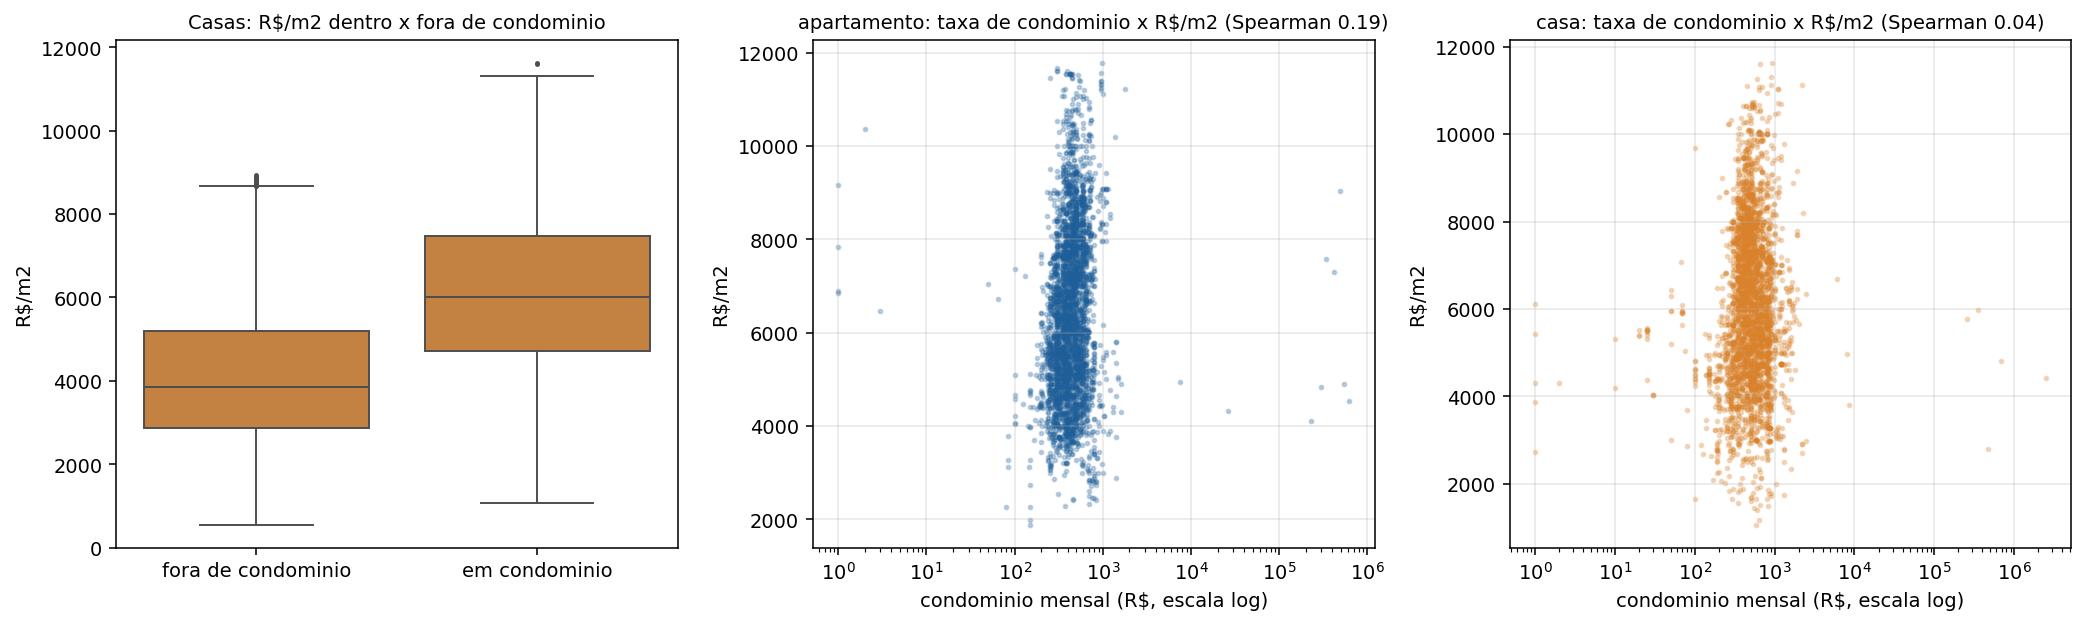
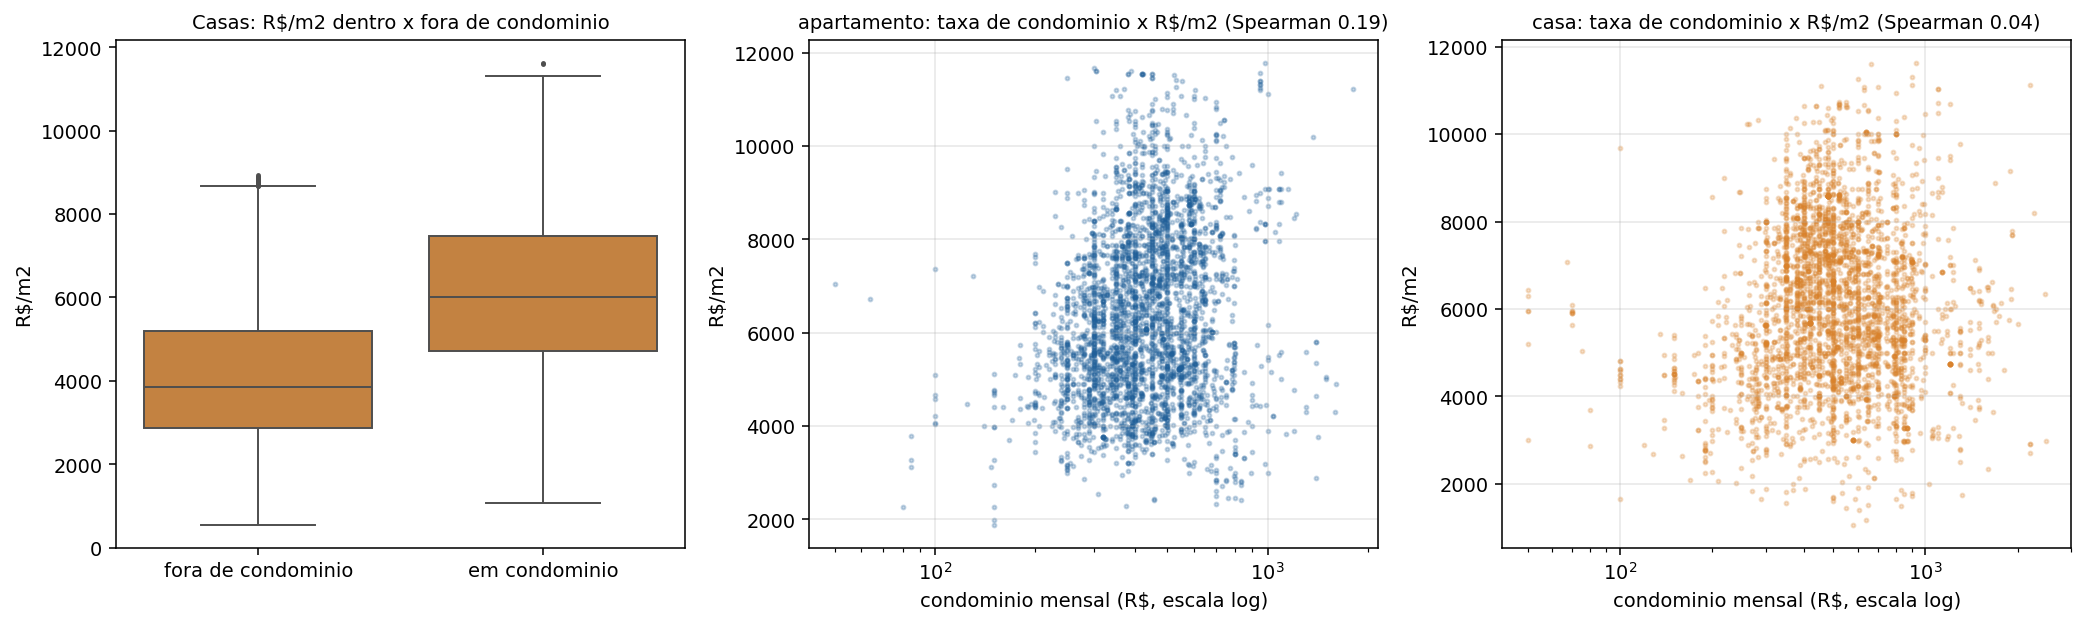
feat: trata taxas de condominio e IPTU implausiveis na limpeza do VivaReal
- valores positivos fora de R$ 50-5.000 (condominio) e R$ 50-30.000 (IPTU) viram
  ausentes; nenhuma linha e removida e zeros ("sem taxa") sao mantidos
- novas colunas condominio_informado e iptu_informado
- relatorio de limpeza com tabela de ajustes por segmento
- analise exploratoria reexecutada e docs atualizados; pendencia registrada:
  unidade do IPTU (mediana de R$ 100-150 por ano e suspeita)

diff --git a/src/vivareal/cleaning.py b/src/vivareal/cleaning.py
@@ -33,7 +33,9 @@ OUTPUT_COLUMNS = [
     "suites",
     "parking_spaces",
     "yearly_iptu",
+    "iptu_informado",
     "monthly_condo",
+    "condominio_informado",
     "amenities_count",
     "sale_price",
     "preco_m2",
@@ -80,13 +82,32 @@ def _registrar(log: list[tuple[str, int]], etapa: str, df: pd.DataFrame) -> None
     log.append((etapa, len(df)))
 
 
+def _anular_implausiveis(df: pd.DataFrame, coluna: str, faixa: tuple[float, float], rotulo: str) -> dict:
+    """Transforma em ausente (NaN) os valores POSITIVOS fora da faixa. Zero e mantido
+    ('sem taxa') e nenhuma linha e removida. Retorna o resumo do ajuste."""
+    baixo, alto = faixa
+    valores = df[coluna]
+    abaixo = (valores > 0) & (valores < baixo)
+    acima = valores > alto
+    df.loc[abaixo | acima, coluna] = float("nan")
+    return {
+        "variavel": rotulo,
+        "faixa plausivel": f"{baixo:g} a {alto:g}",
+        "zeros mantidos (sem taxa)": int((valores == 0).sum()),
+        "positivos abaixo do minimo -> ausente": int(abaixo.sum()),
+        "acima do maximo -> ausente": int(acima.sum()),
+        "informados ao final": int(df[coluna].notna().sum()),
+    }
+
+
 def limpar_segmento(
     df: pd.DataFrame,
     seg: SegmentoConfig,
     outlier_iqr_factor: float,
-) -> tuple[pd.DataFrame, list[tuple[str, int]]]:
-    """Aplica as regras de limpeza de um segmento (df ja deduplicado e
-    restrito a usage_type). Retorna o dataset e o log (etapa, linhas restantes)."""
+) -> tuple[pd.DataFrame, list[tuple[str, int]], list[dict]]:
+    """Aplica as regras de limpeza de um segmento (df ja deduplicado e restrito a
+    usage_type). Retorna o dataset, o log (etapa, linhas restantes) e os ajustes de
+    valores que nao removem linhas (taxas implausiveis viram ausentes)."""
     log: list[tuple[str, int]] = []
 
     df = df[df["property_type"].isin(seg.property_types)].copy()
@@ -125,6 +146,15 @@ def limpar_segmento(
     df = df[df["preco_m2"].between(q1 - outlier_iqr_factor * iqr, q3 + outlier_iqr_factor * iqr)]
     _registrar(log, f"outliers de preco_m2 por IQR (fator {outlier_iqr_factor:g}) por property_type", df)
 
+    ajustes = [
+        _anular_implausiveis(df, "monthly_condo", seg.monthly_condo_range, "condominio mensal (R$)"),
+        _anular_implausiveis(df, "yearly_iptu", seg.yearly_iptu_range, "IPTU anual (R$)"),
+    ]
+    # a ausencia da taxa carrega informacao (ex.: casas fora de condominio quase nunca tem
+    # taxa), entao ela vira indicador em vez de ser imputada
+    df["condominio_informado"] = df["monthly_condo"].notna().astype(int)
+    df["iptu_informado"] = df["yearly_iptu"].notna().astype(int)
+
     df["segmento"] = seg.nome
     # em_condominio so faz sentido para casas (CONDOMINIUM = casa em condominio)
     if seg.nome == "casa":
@@ -132,4 +162,4 @@ def limpar_segmento(
     else:
         df["em_condominio"] = pd.NA
 
-    return df[OUTPUT_COLUMNS].reset_index(drop=True), log
+    return df[OUTPUT_COLUMNS].reset_index(drop=True), log, ajustes

diff --git a/src/vivareal/build_dataset.py b/src/vivareal/build_dataset.py
@@ -25,8 +25,9 @@ def construir_datasets(config: VivaRealConfig | None = None) -> dict[str, pd.Dat
 
     datasets: dict[str, pd.DataFrame] = {}
     logs: dict[str, list[tuple[str, int]]] = {}
+    ajustes: dict[str, list[dict]] = {}
     for seg in cfg.segmentos:
-        datasets[seg.nome], logs[seg.nome] = limpar_segmento(base, seg, cfg.outlier_iqr_factor)
+        datasets[seg.nome], logs[seg.nome], ajustes[seg.nome] = limpar_segmento(base, seg, cfg.outlier_iqr_factor)
         print(f"[VIVAREAL] {seg.nome}: {len(datasets[seg.nome])} registros limpos")
 
     datasets["residencial"] = pd.concat(
@@ -38,7 +39,7 @@ def construir_datasets(config: VivaRealConfig | None = None) -> dict[str, pd.Dat
     for nome, df in datasets.items():
         df.to_csv(os.path.join(cfg.output_dir, f"{nome}.csv"), index=False, encoding="utf-8")
 
-    _escrever_relatorio(cfg, len(bruto), n_residencial, removidas, len(base), logs, datasets)
+    _escrever_relatorio(cfg, len(bruto), n_residencial, removidas, len(base), logs, ajustes, datasets)
     print(f"[VIVAREAL] Datasets em {cfg.output_dir} | relatorio em {cfg.report_path}")
     return datasets
 
@@ -50,6 +51,7 @@ def _escrever_relatorio(
     removidas: int,
     n_dedup: int,
     logs: dict[str, list[tuple[str, int]]],
+    ajustes: dict[str, list[dict]],
     datasets: dict[str, pd.DataFrame],
 ) -> None:
     linhas = [
@@ -73,6 +75,10 @@ def _escrever_relatorio(
         for etapa, restantes in log:
             linhas.append(f"| {etapa} (-{anterior - restantes}) | {restantes} |")
             anterior = restantes
+        linhas += ["", f"Ajustes de valores no segmento {nome} (nenhuma linha removida):", ""]
+        tabela = pd.DataFrame(ajustes[nome])
+        linhas += ["| " + " | ".join(tabela.columns) + " |", "|" + "---|" * len(tabela.columns)]
+        linhas += ["| " + " | ".join(str(v) for v in linha) + " |" for linha in tabela.itertuples(index=False)]
         linhas.append("")
 
     linhas += ["## Arquivos gerados", "", "| Arquivo | Linhas |", "|---|---|"]
@@ -82,6 +88,8 @@ def _escrever_relatorio(
         "",
         "Valores ausentes foram mantidos (sem imputacao). `em_condominio` so existe",
         "para casas; fica vazio em apartamentos. Coordenadas lat/lon = 0 viraram vazias.",
+        "Taxas de condominio e IPTU positivas fora da faixa plausivel viraram ausentes (zero = sem taxa,",
+        "mantido). `condominio_informado` e `iptu_informado` indicam se a taxa existe apos o ajuste.",
         "",
     ]
 

diff --git a/src/vivareal/config.py b/src/vivareal/config.py
@@ -27,6 +27,10 @@ class SegmentoConfig:
     max_bedrooms: int
     max_bathrooms: int
     max_parking_spaces: int
+    # Valores POSITIVOS fora da faixa viram ausentes (a linha e mantida). Zero significa
+    # "sem taxa" e tambem e mantido. Faixas definidas na analise exploratoria (docs/ANALISE_EXPLORATORIA.md).
+    monthly_condo_range: tuple[float, float] = (50, 5_000)
+    yearly_iptu_range: tuple[float, float] = (50, 30_000)
 
 
 APARTAMENTO = SegmentoConfig(

diff --git a/reports/results/eda_vivareal.md b/reports/results/eda_vivareal.md
@@ -20,8 +20,8 @@ Gerado por `python main.py eda-vivareal`. Nao editar manualmente. Fonte: `data/p
 | banheiros | 0.0 | 0.0 | 0.0 |
 | suites | 15.6 | 13.1 | 13.8 |
 | vagas | 2.5 | 3.9 | 3.5 |
-| IPTU anual | 29.1 | 32.0 | 31.2 |
-| condominio | 5.7 | 36.1 | 27.6 |
+| IPTU anual | 35.7 | 35.2 | 35.4 |
+| condominio | 6.1 | 36.4 | 27.9 |
 | latitude | 52.2 | 51.5 | 51.7 |
 | longitude | 52.2 | 51.5 | 51.7 |
 
@@ -45,12 +45,12 @@ Gerado por `python main.py eda-vivareal`. Nao editar manualmente. Fonte: `data/p
 | apartamento | banheiros | 3992 | 0.255 | 0.000 |
 | apartamento | vagas | 3894 | 0.253 | 0.000 |
 | apartamento | n. comodidades | 3992 | 0.228 | 0.000 |
-| apartamento | condominio | 3763 | 0.165 | 0.000 |
+| apartamento | condominio | 3748 | 0.171 | 0.000 |
 | apartamento | area util | 3992 | 0.109 | 0.000 |
 | apartamento | quartos | 3992 | 0.109 | 0.000 |
 | apartamento | longitude | 1908 | 0.109 | 0.000 |
-| apartamento | IPTU anual | 2832 | 0.053 | 0.005 |
-| casa | condominio | 6553 | 0.511 | 0.000 |
+| apartamento | IPTU anual | 2566 | 0.018 | 0.359 |
+| casa | condominio | 6522 | 0.512 | 0.000 |
 | casa | casa em condominio | 10254 | 0.436 | 0.000 |
 | casa | latitude | 4974 | 0.357 | 0.000 |
 | casa | n. comodidades | 10254 | 0.356 | 0.000 |
@@ -59,7 +59,7 @@ Gerado por `python main.py eda-vivareal`. Nao editar manualmente. Fonte: `data/p
 | casa | vagas | 9852 | 0.228 | 0.000 |
 | casa | longitude | 4974 | 0.178 | 0.000 |
 | casa | quartos | 10254 | 0.161 | 0.000 |
-| casa | IPTU anual | 6972 | 0.151 | 0.000 |
+| casa | IPTU anual | 6640 | 0.145 | 0.000 |
 | casa | area util | 10254 | -0.031 | 0.001 |
 
 ## 5. Multicolinearidade (VIF; acima de 5 merece atencao, acima de 10 e problema)
@@ -118,19 +118,19 @@ Os 12 bairros com mais anuncios por segmento:
 | analise | valor A | valor B | n A | n B | p (Mann-Whitney) |
 |---|---|---|---|---|---|
 | casa fora x dentro de condominio (preco_m2 mediana) | 3840.000 | 6020.658 | 7614 | 2640.000 | 0.000 |
-| casa fora de condominio: % sem valor de condominio | 47.505 |  | 7614 |  |  |
-| casa em condominio: % sem valor de condominio | 3.182 |  | 2640 |  |  |
-| apartamento: Spearman(condominio, preco_m2) entre os que tem taxa > 0 | 0.187 |  | 3594 |  | 0.000 |
-| casa: Spearman(condominio, preco_m2) entre os que tem taxa > 0 | 0.043 |  | 3520 |  | 0.011 |
+| casa fora de condominio: % sem valor de condominio | 47.754 |  | 7614 |  |  |
+| casa em condominio: % sem valor de condominio | 3.636 |  | 2640 |  |  |
+| apartamento: Spearman(condominio, preco_m2) entre os que tem taxa > 0 | 0.193 |  | 3579 |  | 0.000 |
+| casa: Spearman(condominio, preco_m2) entre os que tem taxa > 0 | 0.038 |  | 3489 |  | 0.025 |
 
 Valores implausiveis que a limpeza atual nao trata (pendencia para o `vivareal-prep`):
 
 | segmento | variavel | n com valor | mediana | p1 | p99 | maximo | zeros (sem taxa) | positivos abaixo do limite inferior | acima do limite superior | limites (inferior; superior) |
 |---|---|---|---|---|---|---|---|---|---|---|
-| apartamento | condominio mensal (R$) | 3763 | 417.0 | 0.0 | 1080.0 | 620000.0 | 169 | 6 | 9 | 50; 5000 |
-| apartamento | IPTU anual (R$) | 2832 | 90.0 | 0.0 | 1200.0 | 83412.0 | 512 | 265 | 1 | 50; 30000 |
-| casa | condominio mensal (R$) | 6553 | 270.0 | 0.0 | 1400.0 | 2500000.0 | 3033 | 23 | 8 | 50; 5000 |
-| casa | IPTU anual (R$) | 6972 | 137.0 | 0.0 | 4600.0 | 1813921.0 | 1725 | 313 | 19 | 50; 30000 |
+| apartamento | condominio mensal (R$) | 3748 | 417.0 | 0.0 | 1000.0 | 1800.0 | 169 | 0 | 0 | 50; 5000 |
+| apartamento | IPTU anual (R$) | 2566 | 100.0 | 0.0 | 1200.0 | 29034.0 | 512 | 0 | 0 | 50; 30000 |
+| casa | condominio mensal (R$) | 6522 | 270.0 | 0.0 | 1309.5 | 2471.0 | 3033 | 0 | 0 | 50; 5000 |
+| casa | IPTU anual (R$) | 6640 | 150.0 | 0.0 | 4006.1 | 20909.0 | 1725 | 0 | 0 | 50; 30000 |
 
 ## 8. Coordenadas
 

diff --git a/docs/ANALISE_EXPLORATORIA.md b/docs/ANALISE_EXPLORATORIA.md
@@ -137,8 +137,8 @@ Base: `data/processed/vivareal/{apartamento,casa,residencial}.csv` (3.992,
 3. **Condominio (casas):** casas em condominio custam R$ 6.021/m2 contra R$
    3.840 (mediana, +57%, p < 0,001). A taxa de condominio correlaciona 0,51 com o
    preco, mas isso vem sobretudo de ela ser um **indicador de condominio**: a
-   taxa esta ausente em 47,5% das casas fora de condominio e em so 3,2% das
-   casas em condominio. Entre quem tem taxa positiva, a correlacao cai para
+   taxa esta ausente em 47,8% das casas fora de condominio e em so 3,6% das
+   casas em condominio (numeros apos o ajuste de valores implausiveis, item 8). Entre quem tem taxa positiva, a correlacao cai para
    0,04. Consequencia: a taxa e redundante com `em_condominio`, e o fato de
    estar **ausente** carrega informacao, entao imputar por mediana esconderia
    isso. Para apartamentos a taxa correlaciona 0,19 entre quem tem valor.
@@ -153,21 +153,30 @@ Base: `data/processed/vivareal/{apartamento,casa,residencial}.csv` (3.992,
    apartamento e -0,03 em casa. O tamanho vem mais por suites, banheiros e vagas
    (0,25 a 0,32 em apartamento).
 6. **Sem multicolinearidade entre as variaveis de tamanho:** VIF de 1,4 a 2,6.
-7. **Valores ausentes:** suites 13-16%, IPTU ~30%, condominio 36% nas casas,
-   coordenadas ~52%.
-8. **Valores implausiveis que a limpeza atual nao trata:** taxa de condominio
-   acima de R$ 5.000 (9 apartamentos, 8 casas; maximos de R$ 620 mil e R$ 2,5
-   milhoes), IPTU anual acima de R$ 30.000 (1 e 19; maximo de R$ 1,8 milhao) e
-   alguns valores positivos abaixo de R$ 50. Zeros sao legitimos (imovel sem
-   taxa) e nao devem ser removidos.
+7. **Valores ausentes (apos o ajuste do item 8):** suites 13-16%, IPTU ~35%,
+   condominio 36% nas casas, coordenadas ~52%.
+8. **Valores implausiveis (tratados em `vivareal-prep`):** antes do ajuste havia
+   taxa de condominio acima de R$ 5.000 (9 apartamentos, 8 casas; maximos de R$
+   620 mil e R$ 2,5 milhoes), IPTU anual acima de R$ 30.000 (1 e 19; maximo de
+   R$ 1,8 milhao) e valores positivos abaixo de R$ 50 (condominio: 6 e 23;
+   IPTU: 265 e 313). Agora esses valores viram **ausentes** (nenhuma linha foi
+   removida) e zeros, que significam "sem taxa", foram mantidos. O ajuste
+   mudou pouco os resultados, com uma excecao: o IPTU dos apartamentos perdeu a
+   correlacao com o preco (Spearman 0,053 -> 0,018, p = 0,36), ou seja, ela vinha
+   dos valores absurdos.
+   **Pendencia:** a mediana do "IPTU anual" e de apenas R$ 100 (apartamento) e R$ 150
+   (casa), valor baixo demais para um imposto anual; pode ser mensal ou estar mal
+   preenchido pelos anunciantes. A unidade nao foi confirmada; tratar o IPTU com
+   cautela e confirmar com o orientador antes de usa-lo como variavel.
 9. **Tempo:** 2026-T1 concentra a maioria dos anuncios (1.788 apartamentos e
    3.591 casas). As medianas por trimestre de criacao nao mostram tendencia e
    tem viés de sobrevivencia; nao servem como serie de precos.
 
-## Decisoes para as proximas etapas (a confirmar)
+## Decisoes para as proximas etapas
 
-1. **Ajustar `vivareal-prep`:** tratar condominio > R$ 5.000 e IPTU > R$ 30.000
-   como ausentes (nao remover a linha) e criar indicadores de "taxa informada".
+1. **(feito) Ajuste do `vivareal-prep`:** condominio fora de R$ 50 a R$ 5.000 e IPTU
+   fora de R$ 50 a R$ 30.000 viram ausentes (nao se remove a linha) e as colunas
+   `condominio_informado` e `iptu_informado` indicam se a taxa existe.
 2. **Variaveis de partida por segmento:** area, quartos, banheiros, suites, vagas,
    comodidades, bairro suavizado, `em_condominio` (casas) e, como teste separado,
    coordenadas. Condominio e IPTU entram como teste comparativo (com e sem),

diff --git a/reports/results/vivareal_limpeza.md b/reports/results/vivareal_limpeza.md
@@ -23,6 +23,13 @@ Banco de origem (somente leitura): `data/raw/vivareal_jacarei/vivareal_jacarei_2
 | quartos <= 5, banheiros <= 6, vagas <= 5 (-13) | 4055 |
 | outliers de preco_m2 por IQR (fator 1.5) por property_type (-63) | 3992 |
 
+Ajustes de valores no segmento apartamento (nenhuma linha removida):
+
+| variavel | faixa plausivel | zeros mantidos (sem taxa) | positivos abaixo do minimo -> ausente | acima do maximo -> ausente | informados ao final |
+|---|---|---|---|---|---|
+| condominio mensal (R$) | 50 a 5000 | 169 | 6 | 9 | 3748 |
+| IPTU anual (R$) | 50 a 30000 | 512 | 265 | 1 | 2566 |
+
 ## Segmento: casa
 
 | Etapa (cumulativa) | Linhas restantes |
@@ -35,6 +42,13 @@ Banco de origem (somente leitura): `data/raw/vivareal_jacarei/vivareal_jacarei_2
 | quartos <= 8, banheiros <= 8, vagas <= 10 (-92) | 10469 |
 | outliers de preco_m2 por IQR (fator 1.5) por property_type (-215) | 10254 |
 
+Ajustes de valores no segmento casa (nenhuma linha removida):
+
+| variavel | faixa plausivel | zeros mantidos (sem taxa) | positivos abaixo do minimo -> ausente | acima do maximo -> ausente | informados ao final |
+|---|---|---|---|---|---|
+| condominio mensal (R$) | 50 a 5000 | 3033 | 23 | 8 | 6522 |
+| IPTU anual (R$) | 50 a 30000 | 1725 | 313 | 19 | 6640 |
+
 ## Arquivos gerados
 
 | Arquivo | Linhas |
@@ -45,3 +59,5 @@ Banco de origem (somente leitura): `data/raw/vivareal_jacarei/vivareal_jacarei_2
 
 Valores ausentes foram mantidos (sem imputacao). `em_condominio` so existe
 para casas; fica vazio em apartamentos. Coordenadas lat/lon = 0 viraram vazias.
+Taxas de condominio e IPTU positivas fora da faixa plausivel viraram ausentes (zero = sem taxa,
+mantido). `condominio_informado` e `iptu_informado` indicam se a taxa existe apos o ajuste.

diff --git a/README.md b/README.md
@@ -87,7 +87,7 @@ Ordem sugerida do pipeline atual:
 
 | Comando | O que faz |
 |---|---|
-| `python main.py vivareal-prep` | Gera `apartamento.csv`, `casa.csv` e `residencial.csv` em `data/processed/vivareal/` (1 registro por anuncio, limpeza por segmento) e o relatorio `reports/results/vivareal_limpeza.md`. Le o banco original so em modo leitura. |
+| `python main.py vivareal-prep` | Gera `apartamento.csv`, `casa.csv` e `residencial.csv` em `data/processed/vivareal/` (1 registro por anuncio, limpeza por segmento, taxas de condominio/IPTU implausiveis viram ausentes) e o relatorio `reports/results/vivareal_limpeza.md`. Le o banco original so em modo leitura. |
 | `python main.py series-coletar` | Coleta 14 series macro (BCB, IPEA, IBGE) pelas APIs publicas. |
 | `python main.py series-fipezap` | Le o Excel do FipeZAP. |
 | `python main.py series-painel` | Valida as series, testa vazamento temporal e gera os paineis mensal e trimestral. Termina com erro se houver vazamento. |
@@ -137,7 +137,7 @@ resultado atual.
 
 ## Proximos passos
 
-1. ajustar a limpeza do VivaReal (condominio e IPTU implausiveis)
-2. regressao linear multipla por segmento e ARIMA/ARIMAX no FipeZAP
-3. LSTM e comparacao ARIMA x LSTM
-4. geolocalizacao e interpretabilidade dos modelos
+1. regressao linear multipla por segmento (VivaReal) e ARIMA/ARIMAX no FipeZAP
+   (confirmar antes a unidade do IPTU, cuja mediana de R$ 100 a R$ 150 por ano e suspeita)
+2. LSTM e comparacao ARIMA x LSTM
+3. geolocalizacao e interpretabilidade dos modelos

diff --git a/docs/METAS.md b/docs/METAS.md
@@ -83,6 +83,8 @@ Observacoes:
    confirmados em fontes) e teste automatico de vazamento temporal.
 6. (feito) Analise exploratoria das series e dos 3 datasets VivaReal (meta 3):
    `docs/ANALISE_EXPLORATORIA.md`.
-7. Proximo: ajustar a limpeza do VivaReal (condominio e IPTU implausiveis),
-   depois ARIMA/ARIMAX e regressao linear multipla (meta 4), com os alvos e
-   cuidados descritos na analise exploratoria.
+7. (feito) Limpeza do VivaReal ajustada: taxas de condominio/IPTU implausiveis viram
+   ausentes e ha indicadores `condominio_informado` e `iptu_informado`.
+8. Proximo: regressao linear multipla por segmento e ARIMA/ARIMAX no FipeZAP
+   (meta 4), com os alvos e cuidados descritos na analise exploratoria. Pendencia:
+   confirmar a unidade do IPTU (mediana de R$ 100 a R$ 150 por ano e suspeita).
